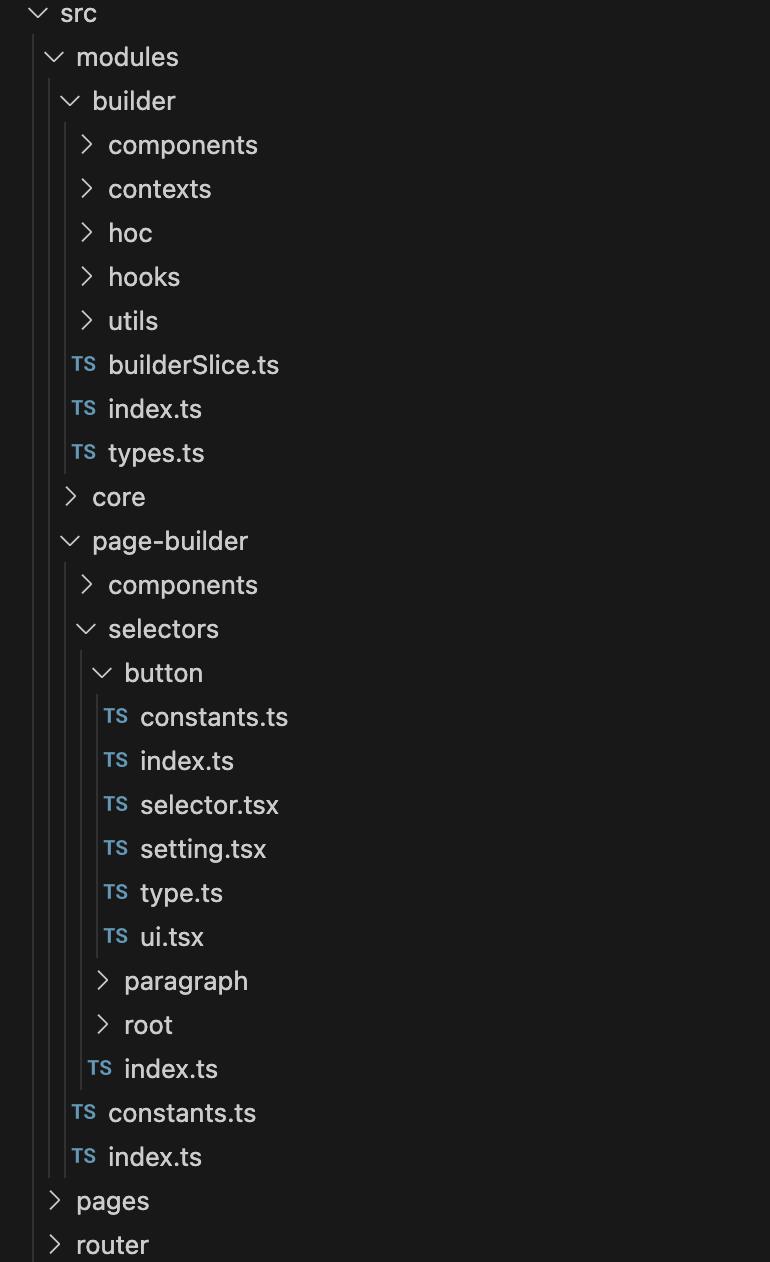
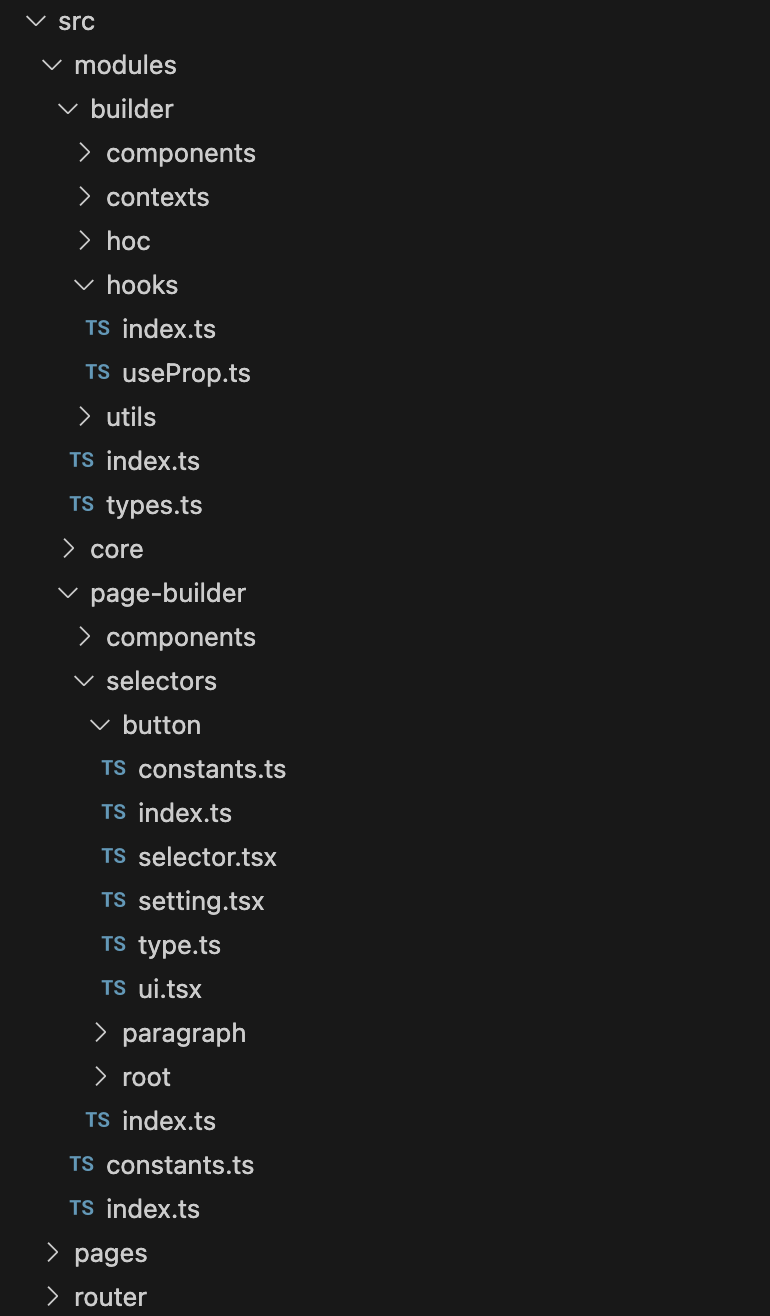
update readme

Changed region(s): [[0.0312, 0.0, 0.374, 1.0]]

diff --git a/README.md b/README.md
@@ -18,36 +18,38 @@ User component - PBComponent (Node):
   - ui: UI of component
   - selector: wrap UI component with some logic (`withSelector`) to allow users to customize on Editor
 
-1. Solution:
+Editor:
 
-- Sharing data: Store page content and other related data in a GlobalStore (Redux). Detail
+- Data start from component ROOT (id = ROOT)
+- Currently, only allow to drop into ROOT component but with `isCanvas`, I can design other components (row, column, ...) to receive components.
 
-  - State
-    - content: page content: Map of user component
-    - selectedNode: current node user clicks on
-  - Expose some functions
-    - addNode: add component user drop to page content
-    - updateContent: set props of component
+Solution:
 
-- Editor:
+- Store data in a GlobalStore - EditorContext. Detail
 
-  - Data start from component ROOT (id = ROOT). Currently, only allow to drop into ROOT component but with `isCanvas`, I can design other components (row, column, ...) to receive components.
-  - Feature
-    - Handle add new node to content: eventListener `dragstart, drop`
-    - Get & set value of node: common hook `useProp` to get value from global store & set value to it
+  - State: related to Builder
+    - `content`: page content: Map of user component
+    - `selectedNode`: current node user clicks on
+
+- Handle core features
+
+  - Drag and drop: use eventListener `dragstart,  drop` to insert new node to content
+  - Getter & Setter for node data: create common hook `useProp`
 
 - Render page content in Builder/Consumer: use a map of tag-components to start render from rootId (ROOT) in `BuilderComponent`
 
-2. Project folder structure
+Project folder structure
 
-![Project Structure](project-structure.png)
+![Project structure](image.png)
 
 - `modules`
 
-  - `builder`: Core logic Dnd & interact with props of user component in Editor
+  - `builder`: Core logic Dnd & custom props of user component in Editor
     - `components`:
       - TiptapEditor for inline text editor of Paragraph component
-    - InputConfig: common TextInput for setting props of component
+      - InputConfig: common TextInput for setting props of component
+    - `contexts`: Editor & Node context with core functions for Editor & Node
+    - `hooks`: common hooks for getting & setting node props
   - `page-builder`:
     - `components`: components used for UI of Admin page
     - `selectors`: user components: button, paragraph - selector: connect UI & functions in Editor - ui: UI of component - constants: default value for component props - types: interface of component props
